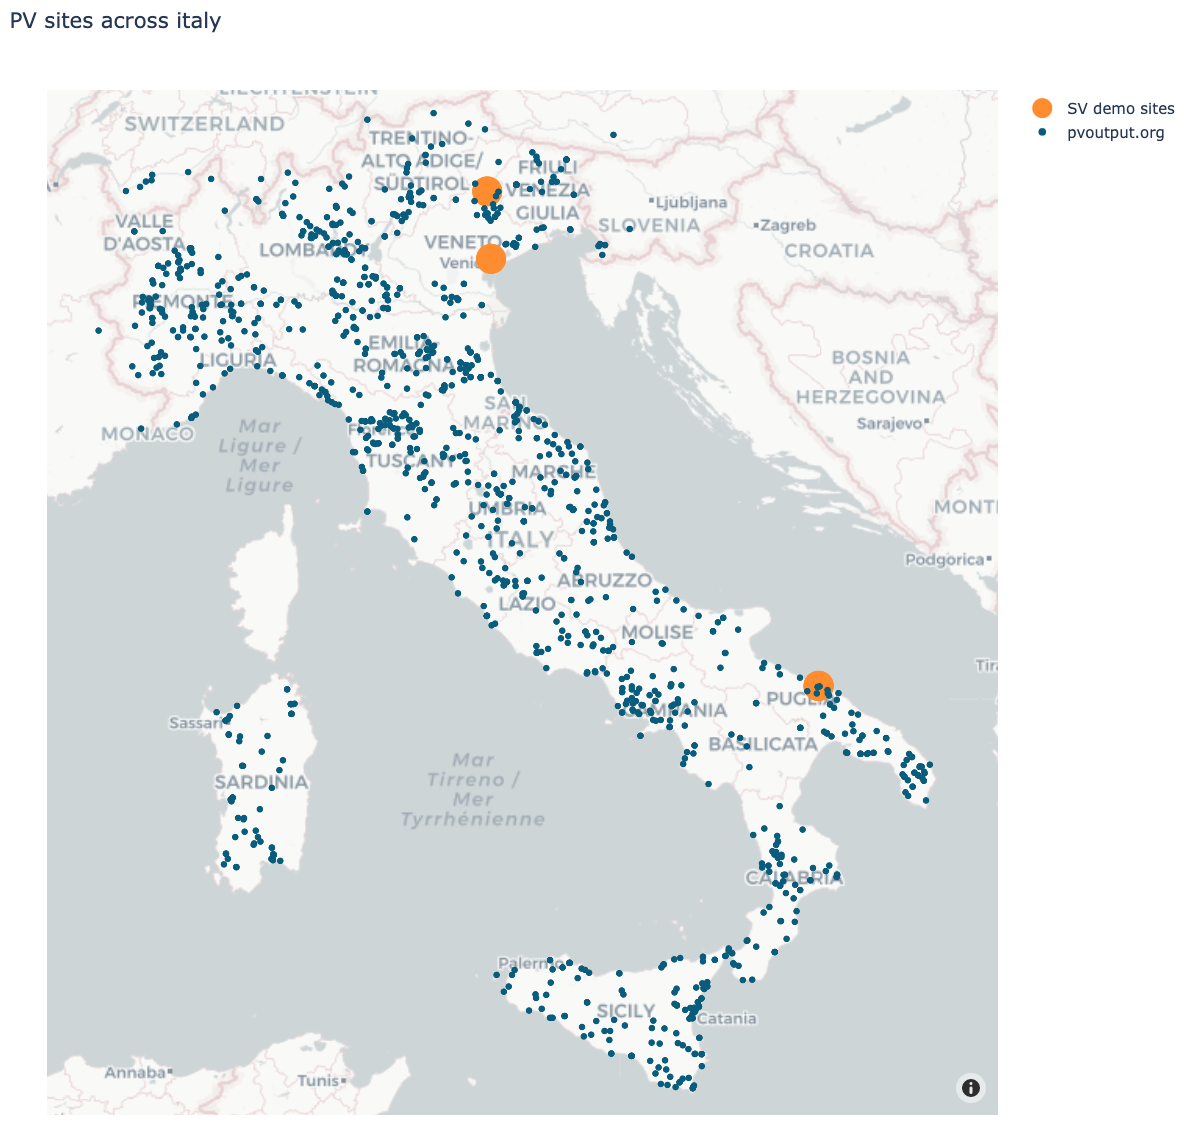
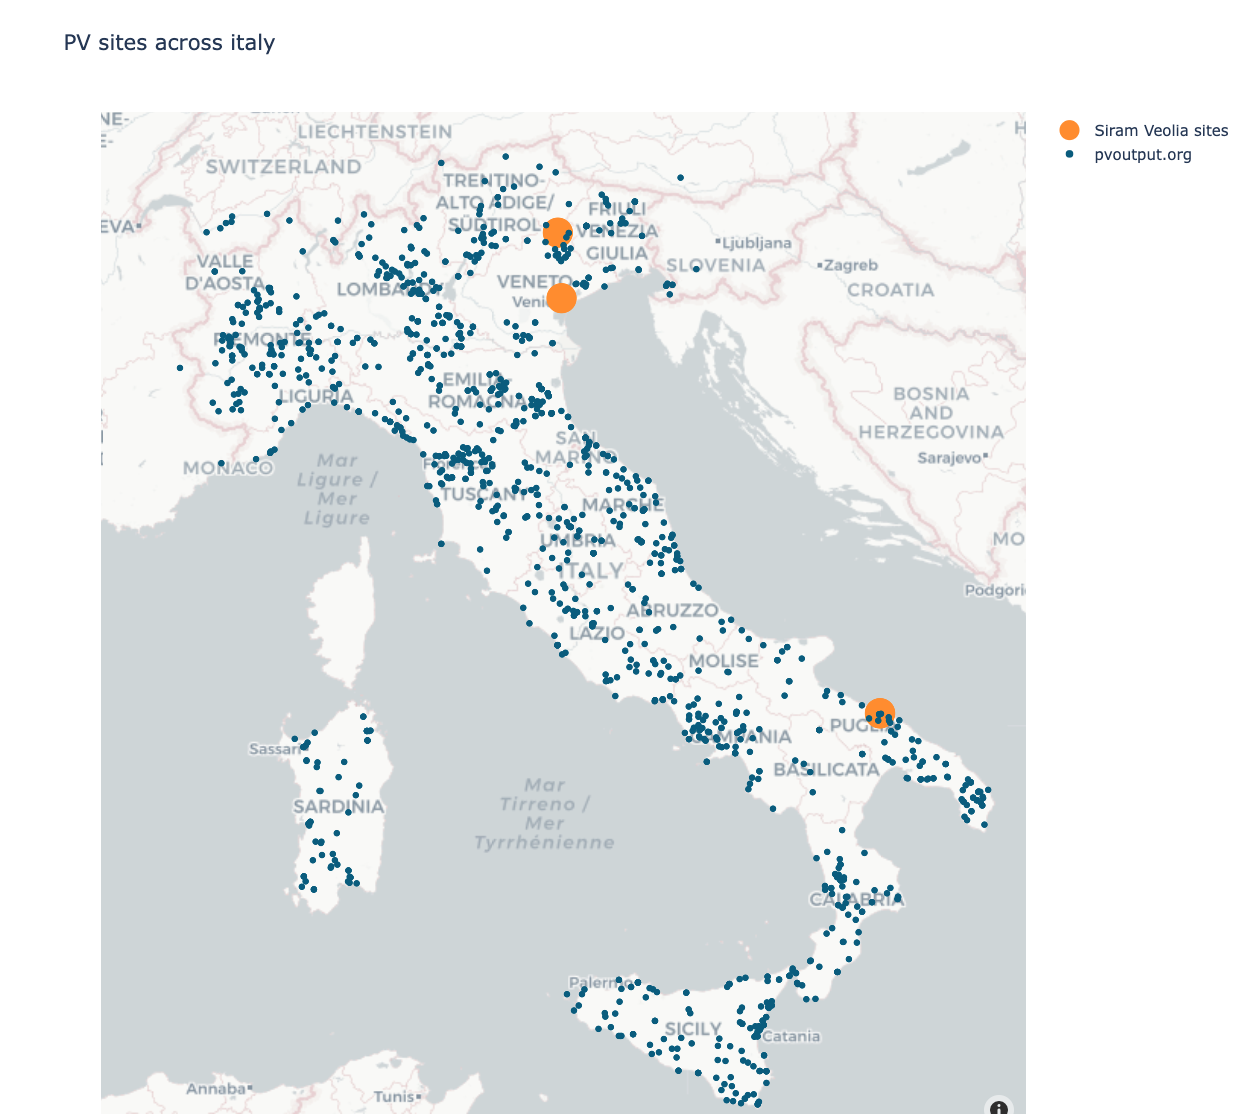
small update to report

diff --git a/scripts/make_pv_plot.py b/scripts/make_pv_plot.py
@@ -41,7 +41,7 @@ traces.append(go.Scattermapbox(
         lon = sv_sites['longitude'],
         lat = sv_sites['latitude'],
         mode = 'markers',
-        name='SV demo sites',
+        name='Siram Veolia sites',
         marker=go.scattermapbox.Marker(size=25,color='#ff9736'),
         ))
 traces.append(go.Scattermapbox(

diff --git a/progress/SV_pilot.md b/progress/SV_pilot.md
@@ -98,7 +98,7 @@ The table below shows the different metrics for MAE and MSE for the baseline and
 | Zero          | 5.63     | 11.55 | [baseline1](https://wandb.ai/openclimatefix/pv-italy/runs/13xw5y6p)
 | Persist       | 3.89      | 8.11 | [baseline2](https://wandb.ai/openclimatefix/pv-italy/runs/2b2wjxww)
 | PV only       | 1.65      | 3.85 | [pv](https://wandb.ai/openclimatefix/pv-italy/runs/3aix2ijd)
-| PV and NWP    | 1.25      | 0.96  | [pv_nwp](https://wandb.ai/openclimatefix/pv-italy/runs/2ekjl5ld)
+| PV and NWP    | 1.25      | 3.03  | [pv_nwp](https://wandb.ai/openclimatefix/pv-italy/runs/2ekjl5ld)
 
 
 Below shows some example predictions of PV systems. The blue line is the truth and the red line is the forecast. 
